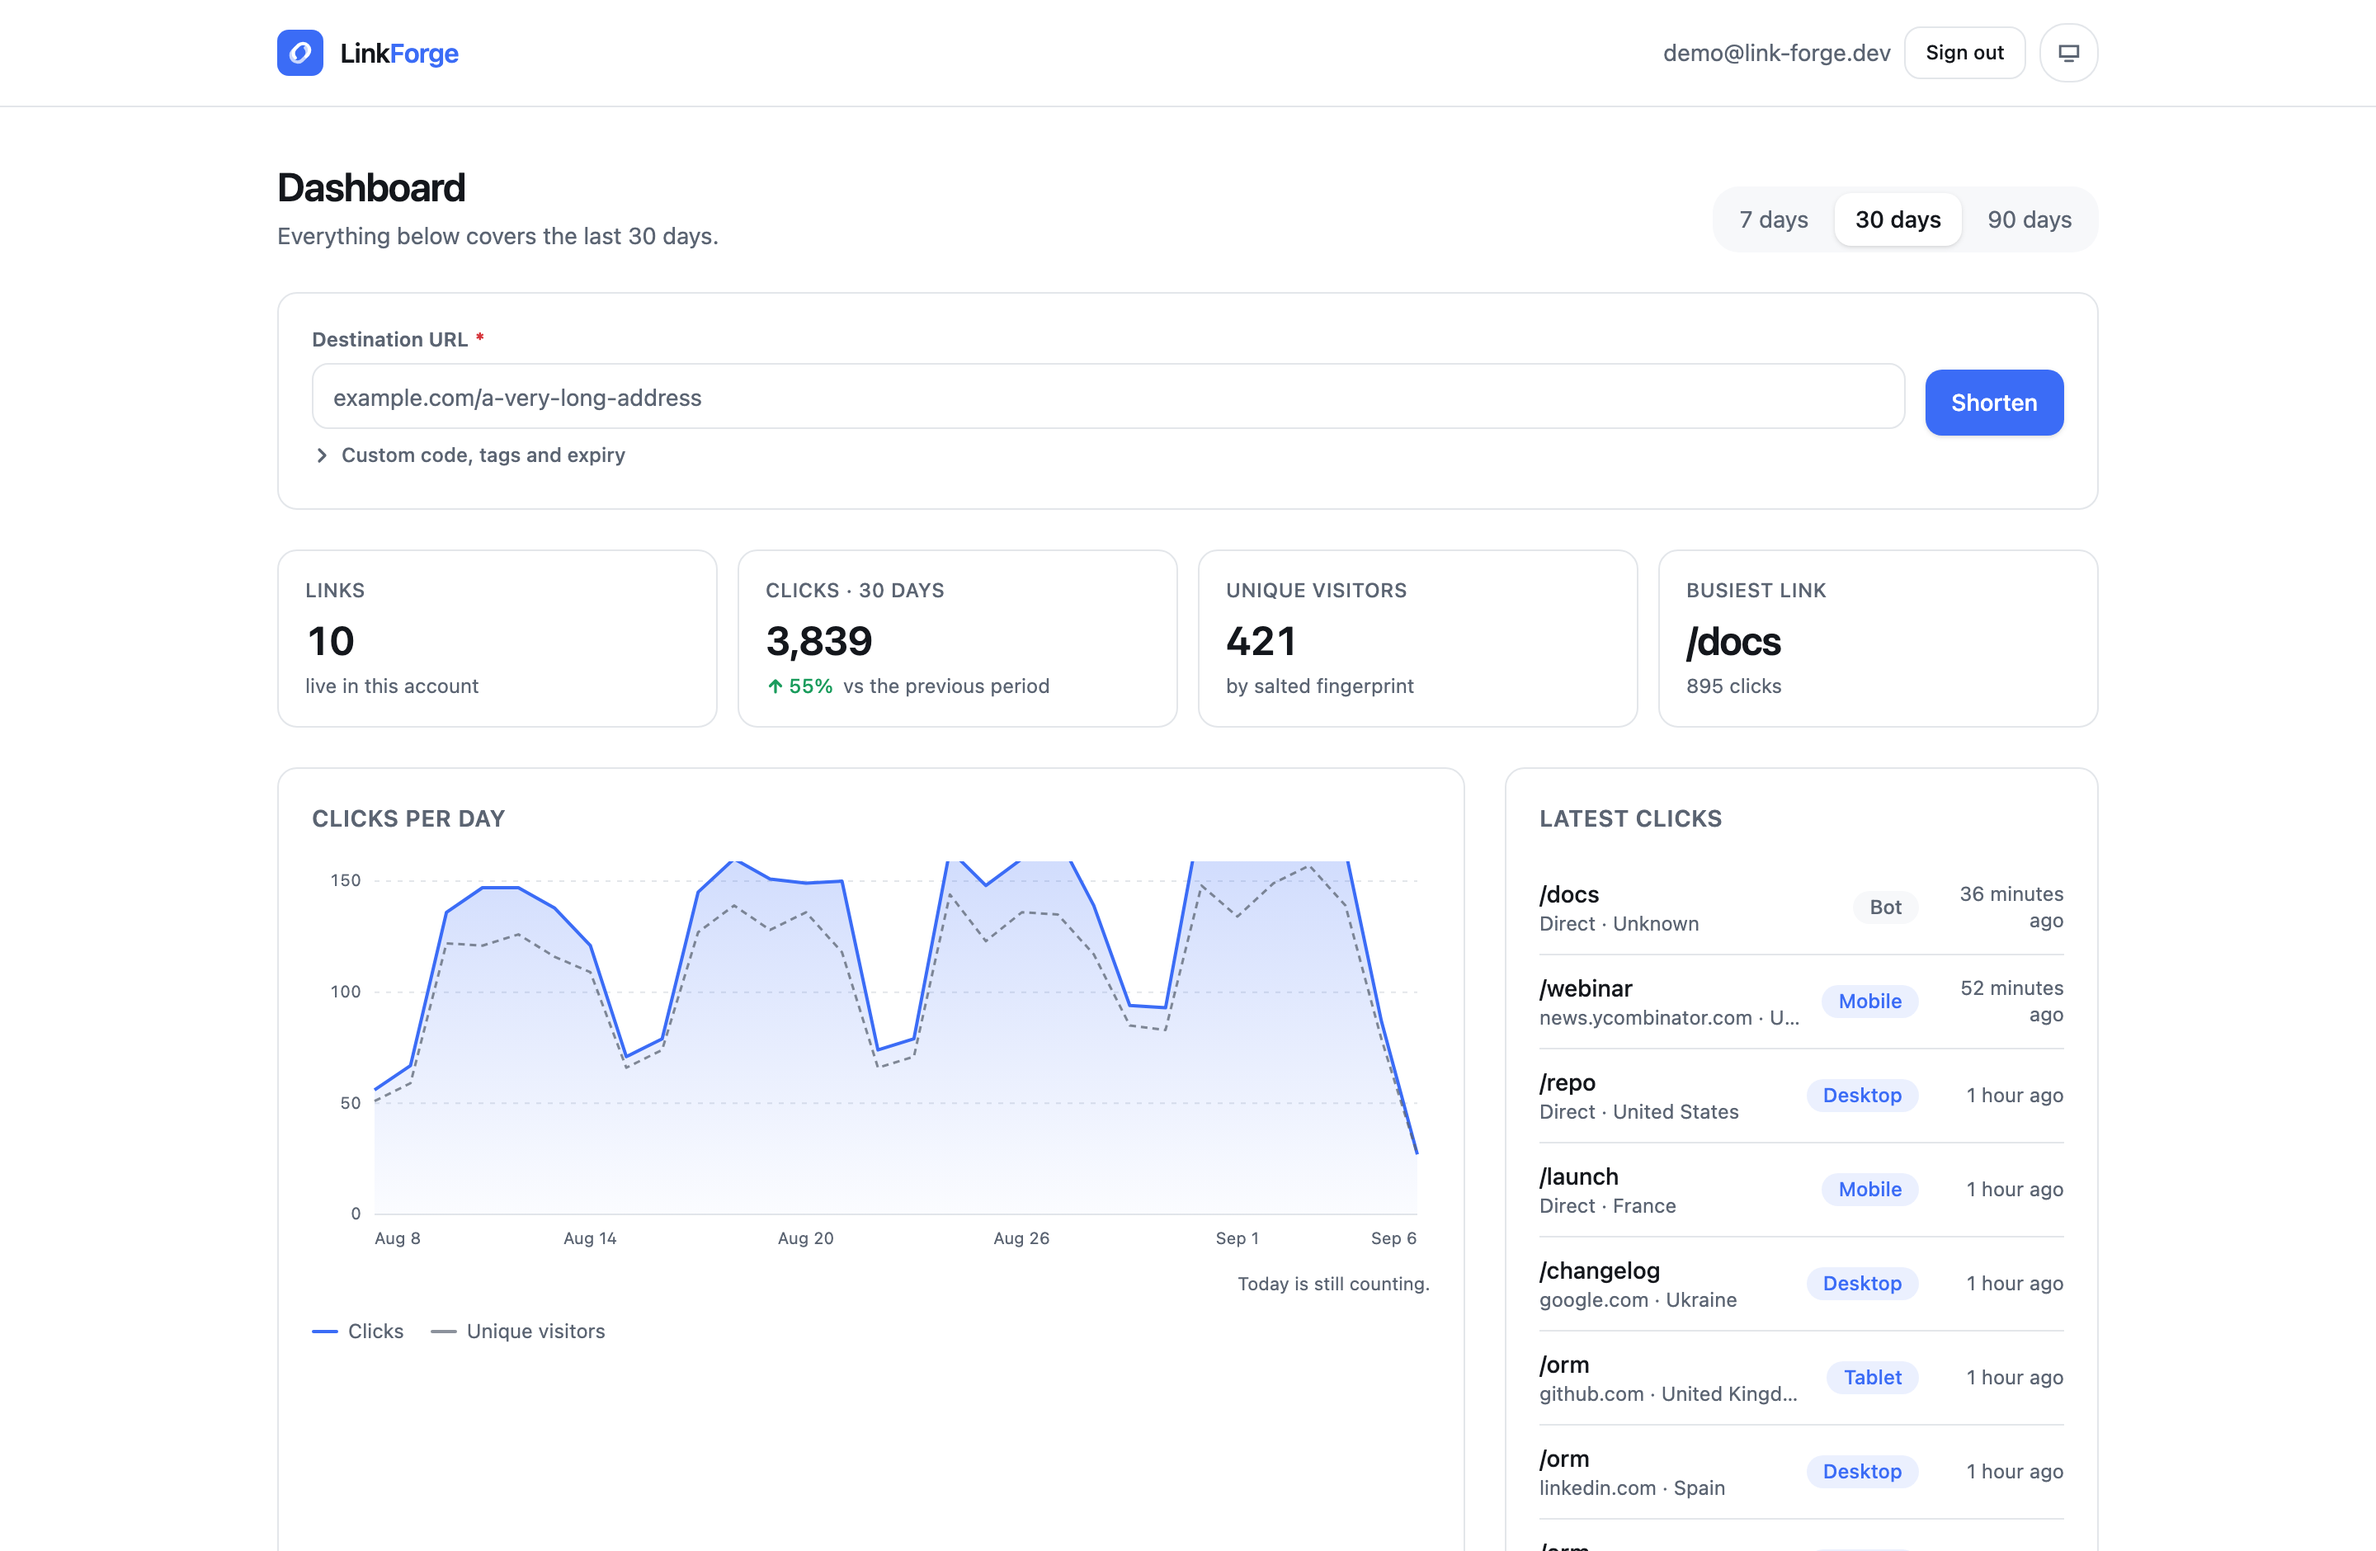
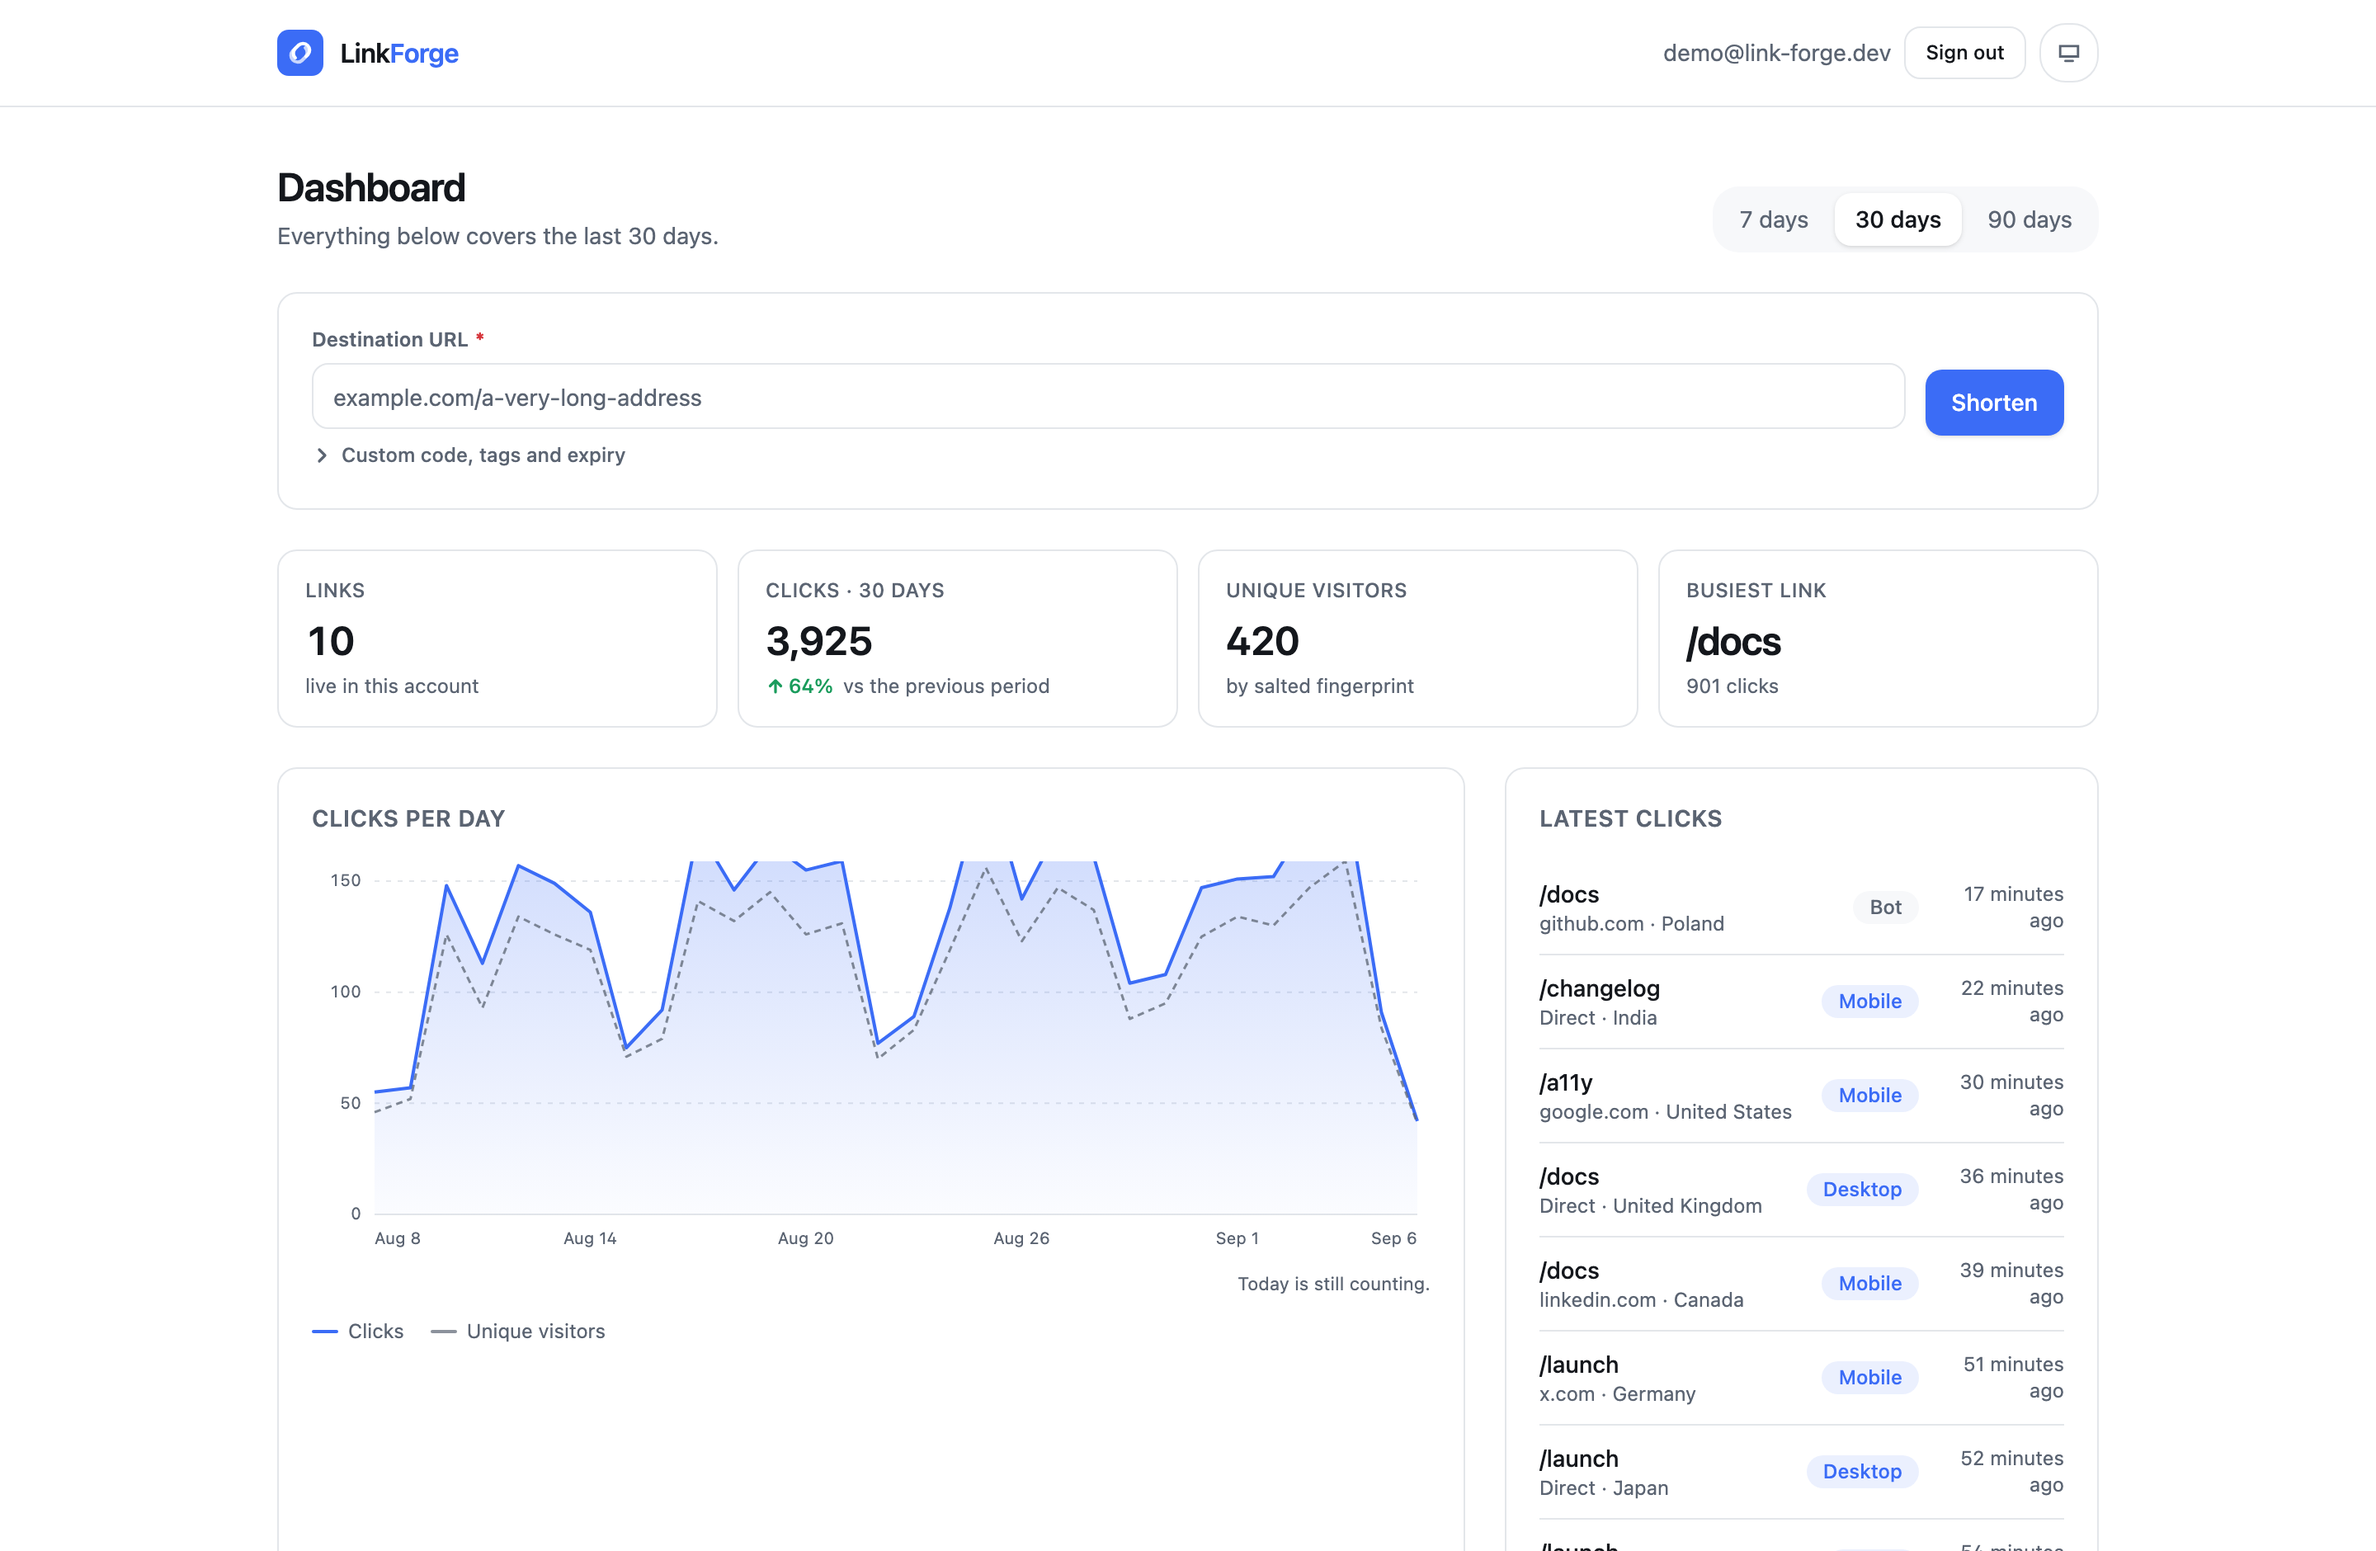
docs: document validation behaviour and refresh the screenshots

diff --git a/README.md b/README.md
@@ -20,6 +20,9 @@ mock layer anywhere in it.
   what a stateless JWT cannot do.
 - **Every redirect writes a row**: referrer host, country, device, browser, and a
   salted fingerprint of the visitor. Raw IP addresses are never stored.
+- **Links stay editable** — label, tags and expiry — while the destination and the
+  code stay fixed, because changing either would silently repoint a link other
+  people have already shared.
 - **Rate limits that count the right things.** A burst of wrong passwords hits a
   wall; signing in correctly costs nothing, so a shared office address never locks
   the next person out.
@@ -85,11 +88,36 @@ production.
 | | |
 |---|---|
 | **Tags** | A Postgres `text[]` column with a GIN index — one column, no join table, still indexed. Filtering is `tags @> ARRAY[$1]`. |
-| **Codes** | Generated from an alphabet with no `0/O/1/l/I`, so a code survives being read aloud. Collisions retry; a taken custom code is a 409. |
+| **Codes** | Generated from an alphabet with no `0/O/1/l/I`, so a code survives being read aloud. Collisions retry; a taken custom code is a 409, and six simultaneous requests for the same one produce exactly one link. |
+| **Repeat pastes** | Shortening an address you already shortened hands back the code you already have instead of minting a second one for the same destination — unless you asked for a code, a label, tags or an expiry, which means you meant a different link. |
 | **Expiry** | An expired link answers **410 Gone** with a page that explains itself, and an unknown one **404** — never a 500 and never a blank redirect. |
 | **Charts** | Hand-drawn SVG: two series, a keyboard-navigable crosshair, and a visually hidden `<table>` carrying the identical numbers for screen readers. No charting library. |
 | **QR codes** | Rendered server-side as SVG and downloadable, so they scale to a poster and never leave your domain. |
 | **Privacy** | Visitors are counted by `sha256(salt + ip + user-agent)` truncated to 32 characters. Country comes from the CDN's header where there is one, and falls back to `Accept-Language` locally — the dashboard says nothing it cannot back up. |
+
+## What it refuses, and how it says so
+
+Validation is a product surface, not an afterthought. Every rejection comes back
+as one shape — `{ error: { code, message, field } }` — so the browser can put the
+sentence under the input that caused it rather than dumping a serialised
+validation error into the page.
+
+| You paste | It says |
+|---|---|
+| `javascript:alert(1)`, `data:…`, `ftp://…` | Only http and https links can be shortened. |
+| `localhost:3000` | That address needs a real domain name. |
+| `https://user:pw@example.com` | Remove the username and password from the address. |
+| a Link Forge address | That is already a Link Forge address — shortening it would loop. |
+| a code with a space, a dot or one character | A custom code is 2–40 letters, digits, dashes or underscores. |
+| `api`, `health`, `robots.txt` | That code is reserved by the app. |
+| a date that has already passed | The expiry date is already in the past. |
+
+What is stored is never quite what was typed: the destination is normalised
+through the URL parser first, so the control characters that would forge a
+`Location:` header are gone before the row is written, `Tags, tags, TAGS` becomes
+one tag, and a `%` typed into the search box is a percent sign rather than a
+wildcard that matches everything. A malformed id in a path answers 404, not the
+500 that `invalid input syntax for type uuid` would otherwise produce.
 
 ## Both themes, down to 360px
 
@@ -110,7 +138,7 @@ delete — works from the keyboard alone.
 | `npm run dev` | API on 8787 and dashboard on 5173, both restarting on change |
 | `npm run build` | Typechecks both halves, then builds the dashboard into `dist/` |
 | `npm start` | Production mode: one process serving the API, the redirects and the built dashboard |
-| `npm test` | 22 tests — the full API against a real database, plus the dashboard components |
+| `npm test` | 145 tests — the full API against a real database, plus the dashboard components |
 | `npm run lint` / `npm run typecheck` | ESLint and TypeScript, the same two the CI runs |
 | `npm run db:generate` | Turns a schema change into a new SQL migration |
 | `npm run db:migrate` / `npm run db:seed` | Apply migrations; load the demo data |
@@ -121,13 +149,19 @@ delete — works from the keyboard alone.
 The API tests boot the whole app against a private in-memory Postgres — no mocked
 database, no stubbed queries — and walk the scenario a user actually performs:
 create a link, follow it, see the click land in the dashboard attributed to its
-source, then delete it and watch its history go with it. The rest cover the parts
-that are easy to get wrong: ownership (knowing another account's link id gets you
-nothing), identical answers for a wrong password and an unknown account, and both
-rate limits.
+source, then delete it and watch its history go with it.
 
-Measured on the production build: Lighthouse **93 performance / 100 accessibility /
-100 best practices / 100 SEO** on the front page, and **93 / 100 / 100** on the
+The other 140 are there because each of them once failed. Ownership: knowing
+another account's link id gets you nothing. Sign-in: a wrong password and an
+unknown account give the same answer, and only the failures count against the
+rate limit. Input: every rejection above is a test, in both directions — what is
+refused, and what is quietly normalised instead. Concurrency: six requests
+racing for one custom code produce one link and five conflicts. Arithmetic: the
+chart total equals the table total, and breakdown shares add up to 100 because
+the tail is its own row.
+
+Measured on the production build: Lighthouse **94 performance / 100 accessibility /
+100 best practices / 100 SEO** on the front page, and **93 / 100 / 100 / 100** on the
 dashboard. The whole dashboard is 87 kB of JavaScript gzipped.
 
 ## Deploy
